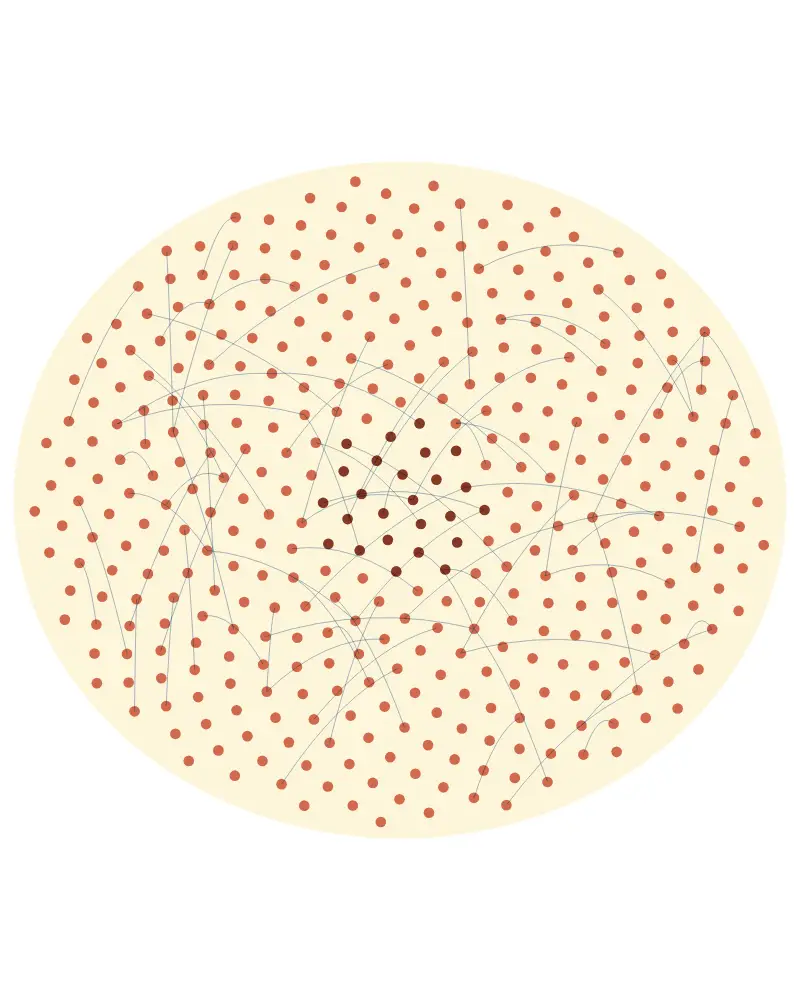
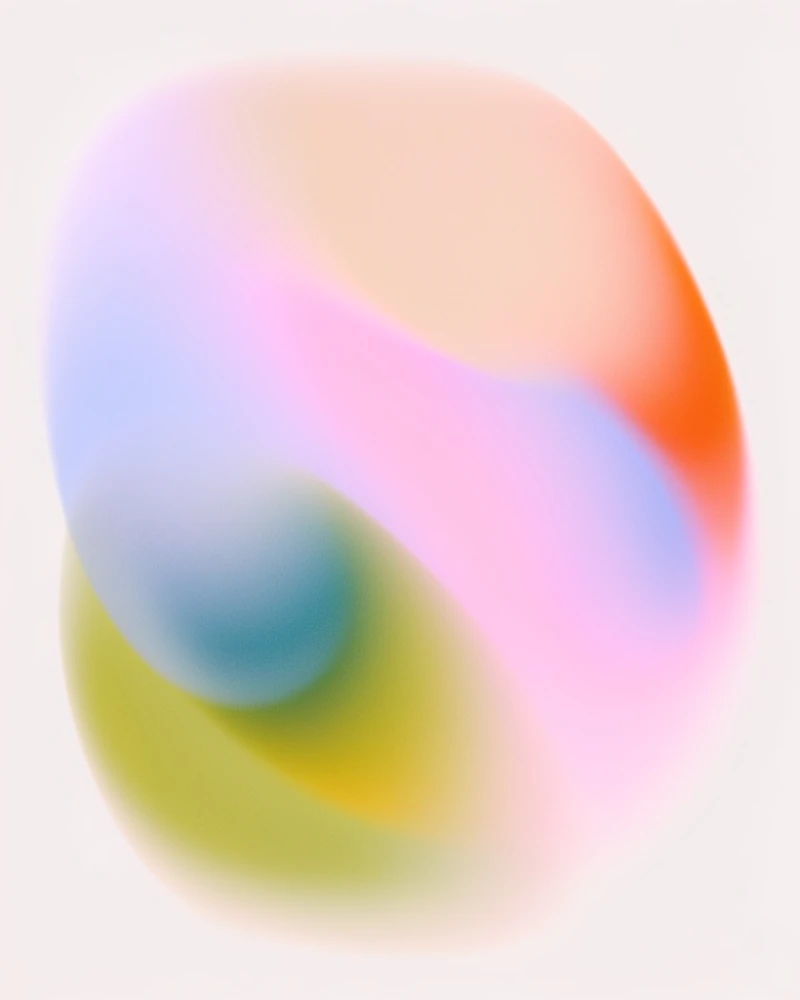
Portada: miniatures de degradat en lloc d'il·lustracions
Haití, la llengua de Managua i el xifrat extrem a extrem passen a portar
miniatures de degradat reutilitzades d'articles antics (cinta transportadora,
on va el CO2, pols del Sàhara). Nova norma a AGENTS.md, guia d'estil i
guidelines: la miniatura és sempre un degradat, mai una il·lustració.

diff --git a/web/guidelines/guidelines.js b/web/guidelines/guidelines.js
@@ -153,6 +153,7 @@
 
   /* ---------- Decisions preses ---------- */
   const TL = [
+    ["20-11-2026", "<b>Miniatures de portada: sempre degradats</b>, mai il·lustracions de l'article. Si no n'hi ha de nous, es repeteix el d'un article antic perquè no es noti."],
     ["17-11-2026", "<b>La portada no es toca</b>: Helvetica Neue LT Pro i l'aspecte original. <b>Res d'«AI slop»</b>: cap rètol decoratiu, índex numerat, «Pròximament» ni text de farciment."],
     ["18-11-2026", "<b>Només tres colors</b>: vermell, blau i groc, amb els seus tons. Mai text en groc."],
     ["19-11-2026", "<b>Cercles translúcids, mai anells concèntrics</b> tipus diana."],

diff --git a/AGENTS.md b/AGENTS.md
@@ -56,7 +56,7 @@ El sistema infogràfic existeix perquè es faci servir. Per a cada article nou:
 - **Cites d'un sol clic.** Cada número del text porta directament a la seva font a «Dades i fonts» (mai a una nota intermèdia), i la font diu què hi recolza i torna al text amb ↑. L'entradeta i els peus de gràfic no expliquen fonts: només enllacen a «Dades i fonts». Cada DOI i URL es comprova abans de publicar.
 - **Res de «AI slop»:** cap rètol decoratiu en majúscules petites, cap índex numerat, cap secció «Pròximament», cap text de farciment, cap emoji (ni caràcters Unicode que els navegadors renderitzen com a emoji, com `◀`, `▶`, `↔`; fes servir sempre fletxes tipogràfiques `←` `→` `↑` `↓`).
 - **Paleta:** vermell `#C8442A`, blau `#2C5DA8` i groc `#F5C518` (i els seus tons), grisos i terra, i un quart color, el **verd de la natura** (`#A6C06A` i tons; `IBV.C.green*`), només per a la natura viva: dibuixar vegetació i, com a categoria de dades, només si la categoria és natura (bosc, conreus, espais naturals). Mai text en groc ni en verd. Cap gràfic pinta fons. Al codi, els colors es diuen en anglès (`IBV.C.red`, `blue`, `yellow`, `green`); els noms catalans són àlies antics.
-- **Portada:** tipografia Helvetica Neue LT Pro i l'aspecte original. No en redissenyis ni el CSS ni la maquetació, però **tots els articles de `web/articles/` han d'aparèixer sempre a la portada**: cada article nou porta el seu `thumb.webp` (800×1000; temporalment es pot copiar el d'un article existent si no se'n crea un de nou), s'afegeix a `web/articles.json` i es regenera `web/index.html` amb `node scripts/sync-home.mjs`.
+- **Portada:** tipografia Helvetica Neue LT Pro i l'aspecte original. No en redissenyis ni el CSS ni la maquetació, però **tots els articles de `web/articles/` han d'aparèixer sempre a la portada**: cada article nou porta el seu `thumb.webp` (800×1000), que **és sempre una imatge de degradat de la casa, mai una il·lustració**: si no n'hi ha cap de nova, copia la d'un article antic perquè la repetició no es noti (decisió de l'editor, 20-11-2026), s'afegeix a `web/articles.json` i es regenera `web/index.html` amb `node scripts/sync-home.mjs`.
 - **Gràfics:** animats en entrar, amb hover que mostra clarament què s'apunta, superlleugers (canvas per a molts elements) i sense scroll horitzontal a 390 px.
 - No modifiquis els fitxers compartits (`web/assets/*`) sense explicar-ho clarament al commit i al resum a l'editor.
 
